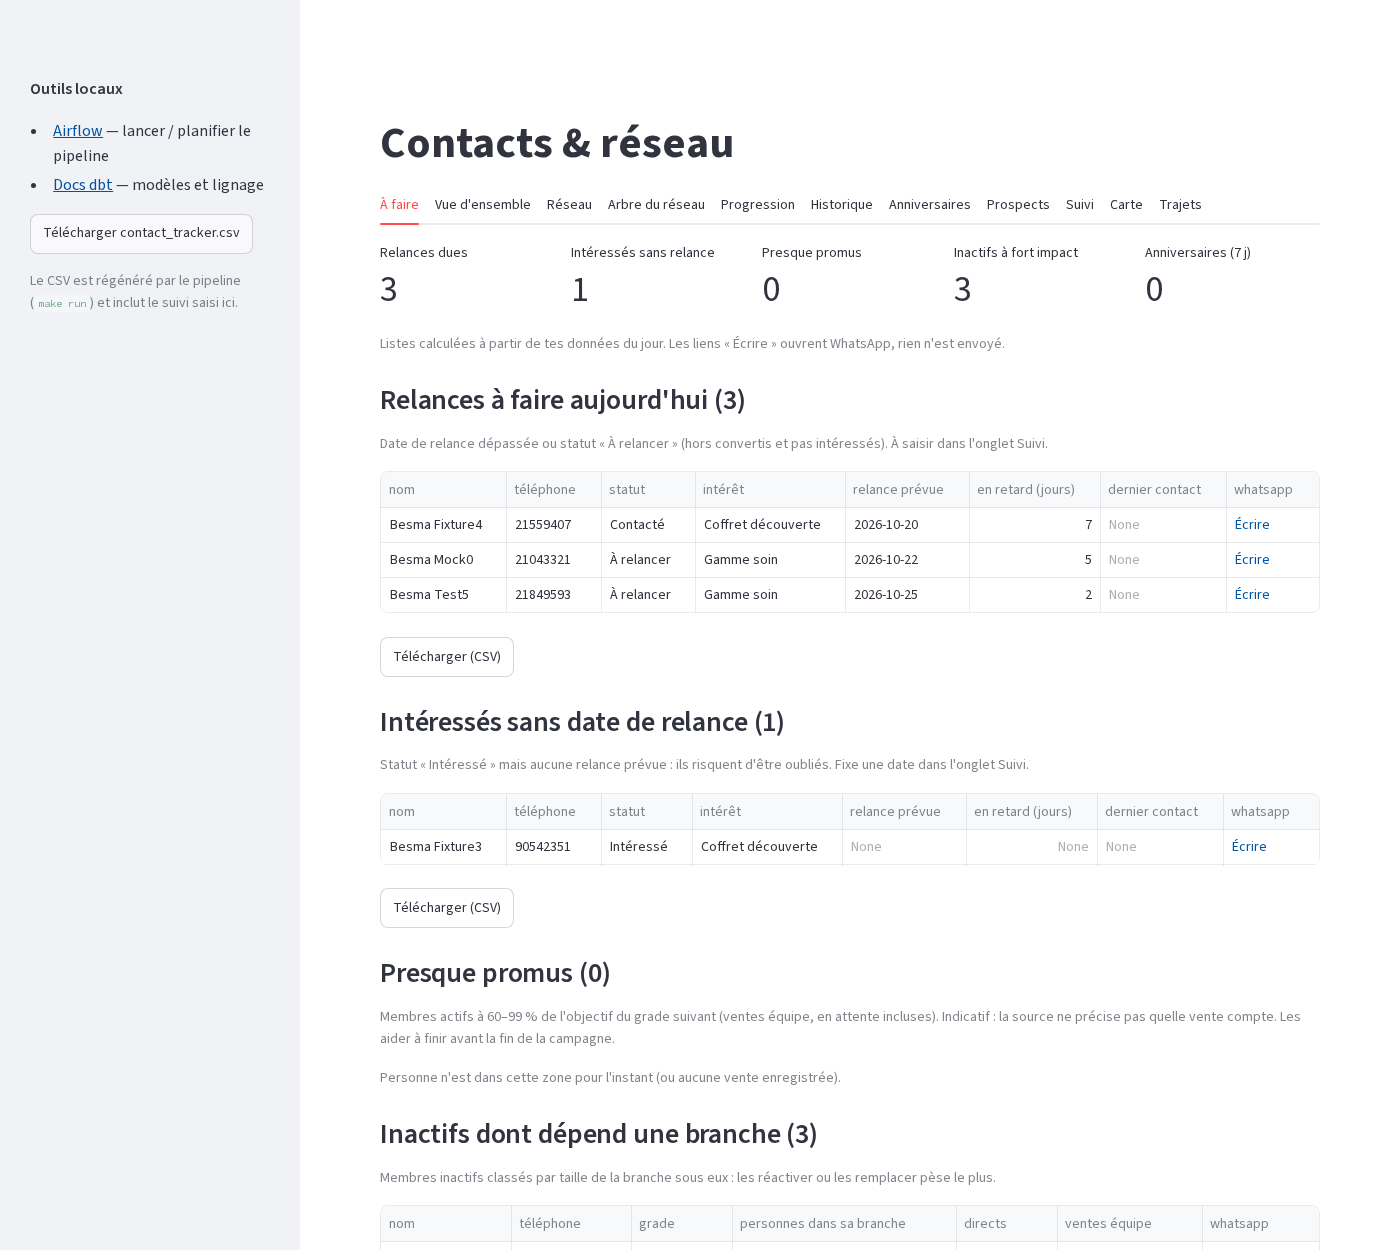
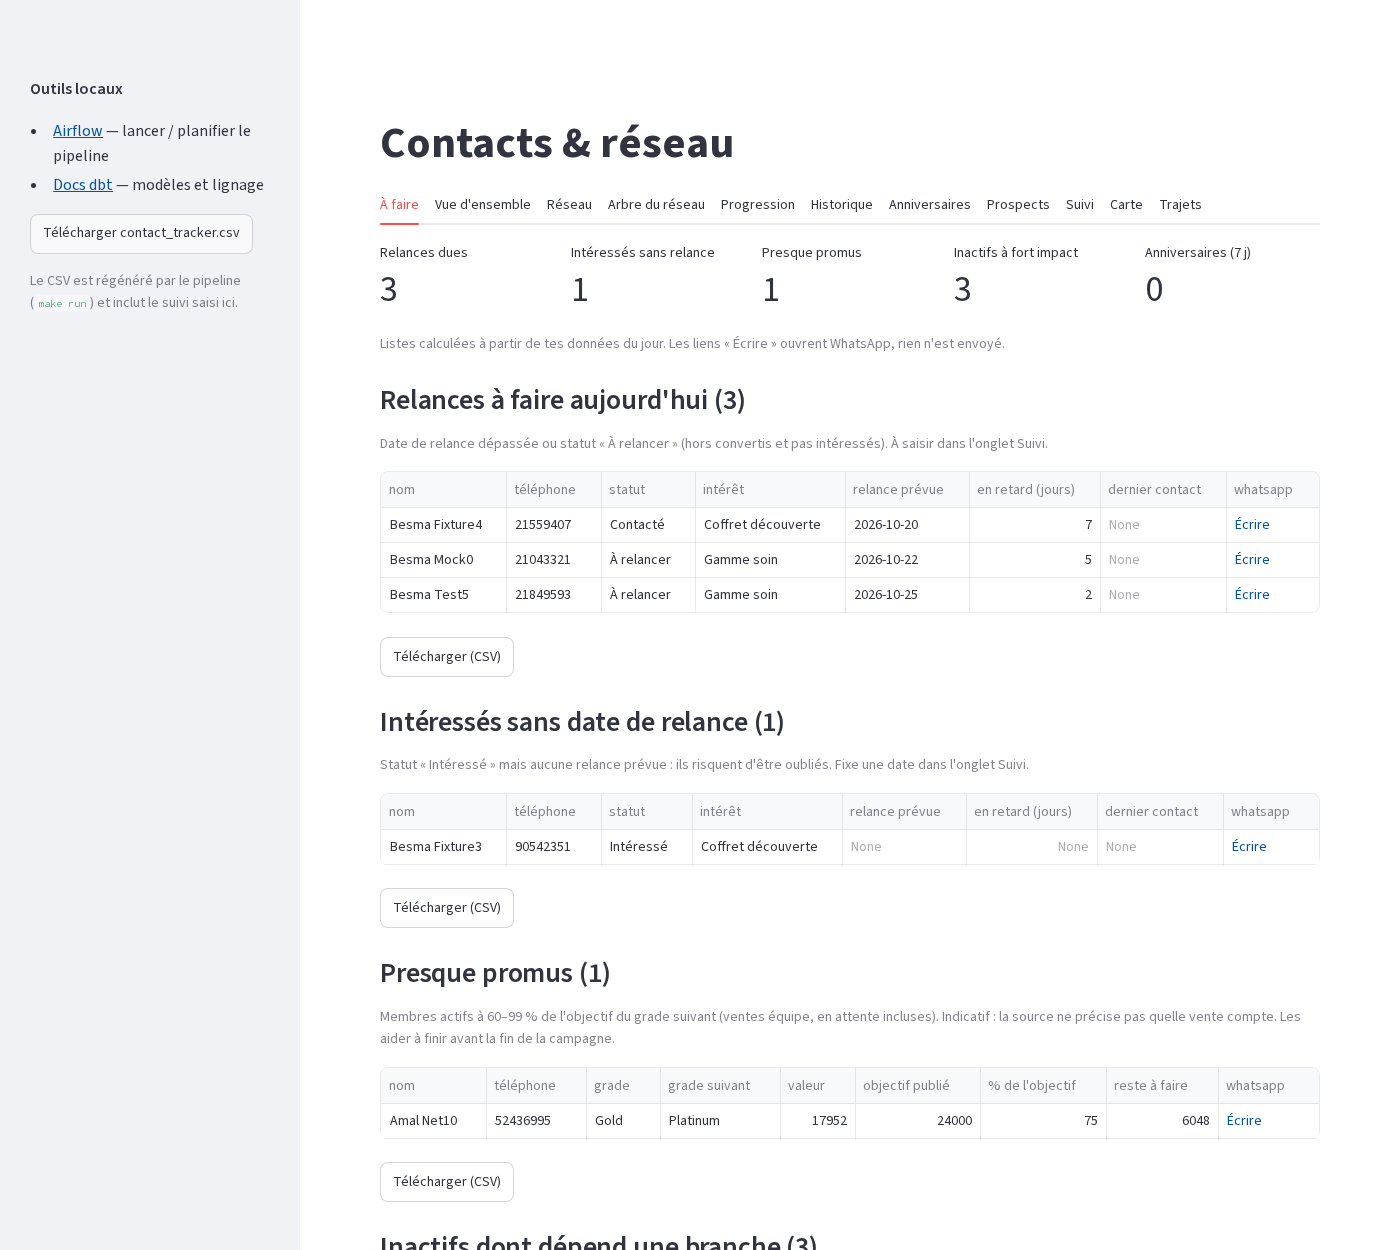
docs(readme): refresh the screenshots and the test count
Retake the screenshots from the demo warehouse with the corrected fixtures
(sales within the next objective, no nan in the town table). The suite now
has 145 tests.

diff --git a/README.md b/README.md
@@ -150,7 +150,7 @@ to a phone. It is a view over the marts, not a second source of truth.
 
 ## Testing
 
-144 pytest tests (loaders, vCard parsing and export, dashboard queries and launch, outreach, sheet sync and
+145 pytest tests (loaders, vCard parsing and export, dashboard queries and launch, outreach, sheet sync and
 formatting, locations, shared-number links, the map and route tabs) plus dbt tests that fail the build
 when a person or a number is lost or a pair is duplicated. All of it runs on the synthetic fixtures, so
 the same suite can live in a public repo, and GitHub Actions runs it on every pull request. The test
@@ -177,7 +177,7 @@ are not shown here.
 cp .env.example .env              # variable names only; put nothing sensitive in git
 make build
 make demo                         # builds the warehouse from the synthetic fixtures
-make test                         # 144 tests, a few minutes
+make test                         # 145 tests, a few minutes
 ```
 
 `make demo` has its own warehouse and outreach store (`data/demo.duckdb`, `data/demo_outreach.duckdb`),
